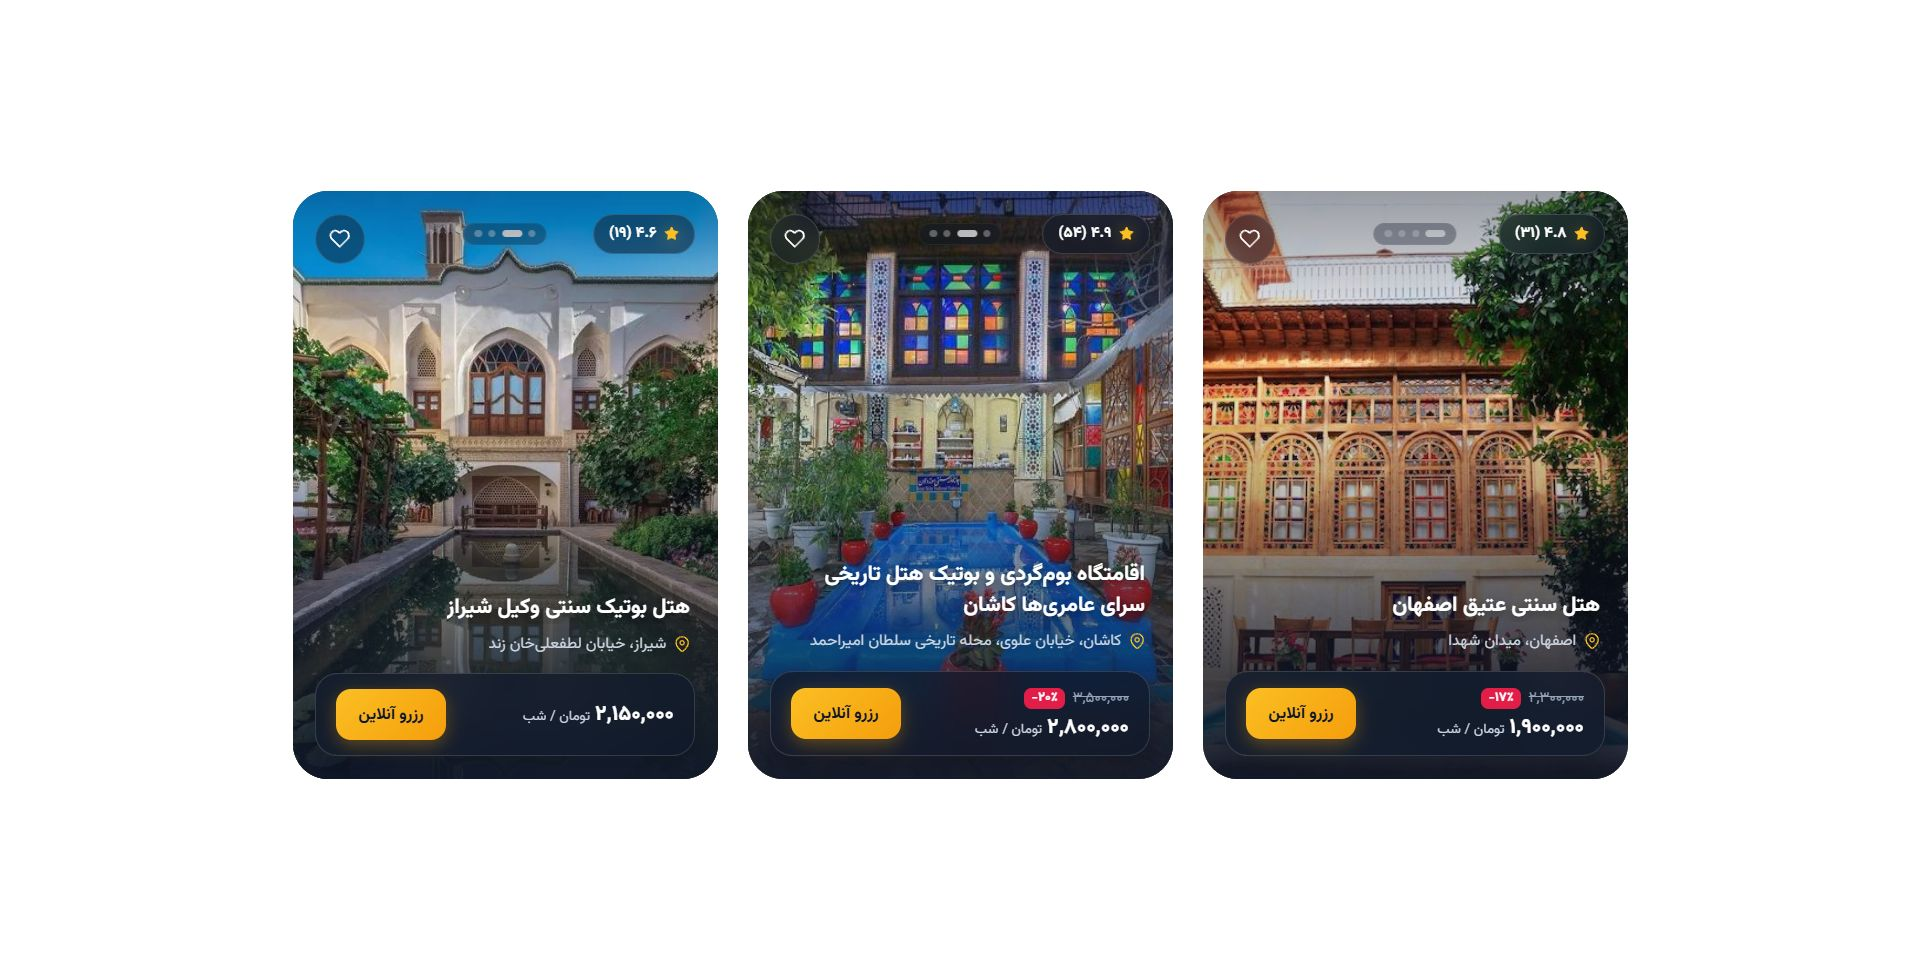
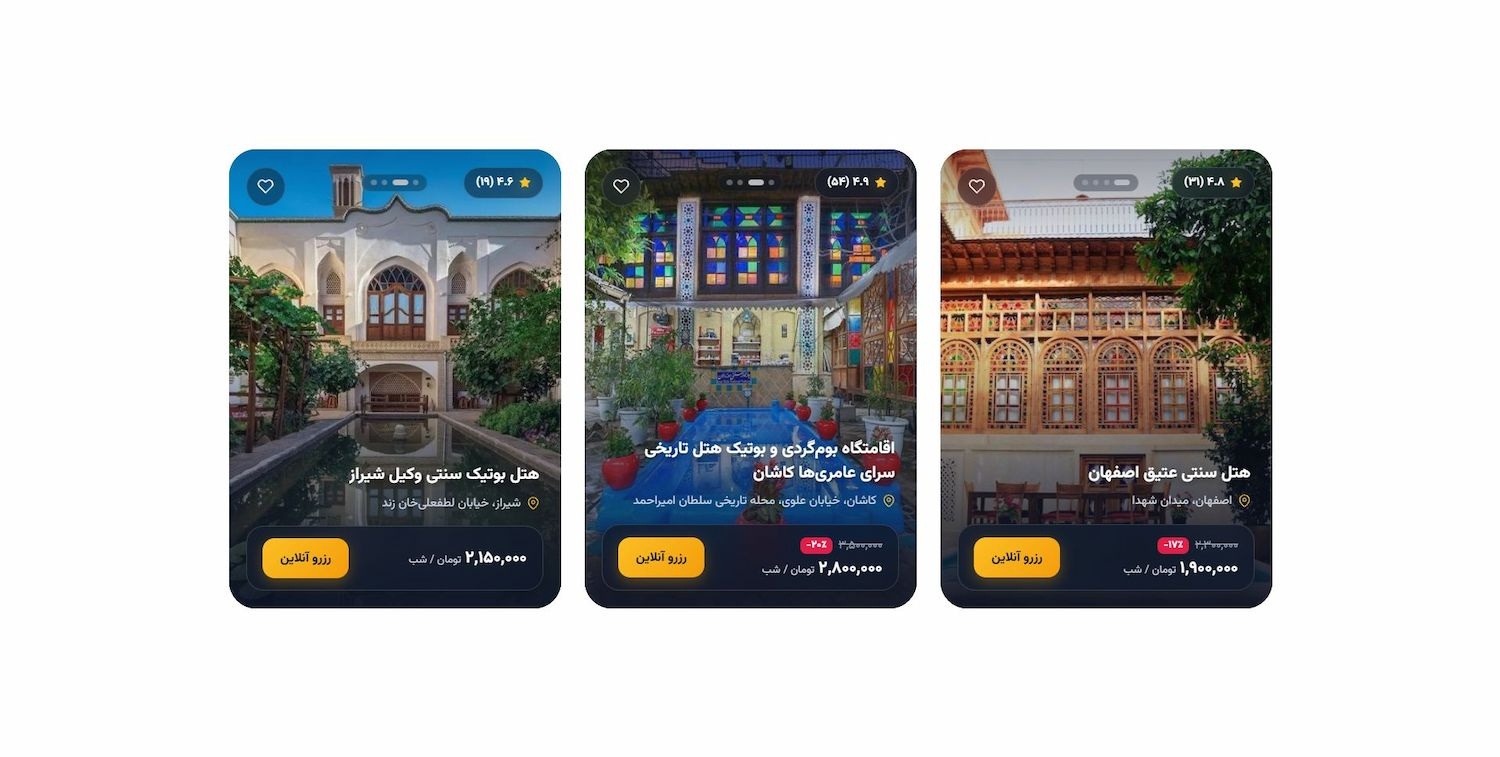
Fix discount badge text, update screenshots

diff --git a/index.html b/index.html
@@ -66,7 +66,7 @@
                          <div class="hotel-card__discount-row">
                               <del class="hotel-card__price-old"><span class="visually-hidden">قیمت قبل از تخفیف:
                                    </span>۲,۳۰۰,۰۰۰</del>
-                              <span class="hotel-card__discount-badge">۱۷٪-</span>
+                              <span class="hotel-card__discount-badge">۱۷٪</span>
                          </div>
                          <div class="hotel-card__price-current">
                               <span class="hotel-card__price-amount">۱,۹۰۰,۰۰۰</span>
@@ -129,7 +129,7 @@
                          <div class="hotel-card__discount-row">
                               <del class="hotel-card__price-old"><span class="visually-hidden">قیمت قبل از تخفیف:
                                    </span>۳,۵۰۰,۰۰۰</del>
-                              <span class="hotel-card__discount-badge">۲۰٪-</span>
+                              <span class="hotel-card__discount-badge">۲۰٪</span>
                          </div>
                          <div class="hotel-card__price-current">
                               <span class="hotel-card__price-amount">۲,۸۰۰,۰۰۰</span>
